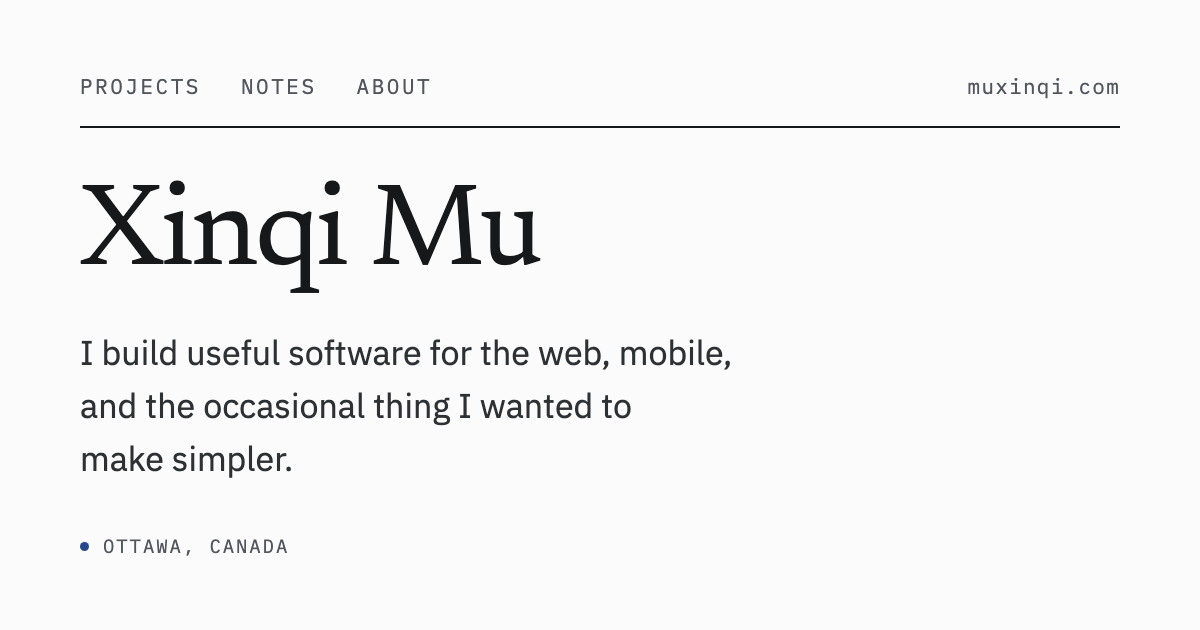
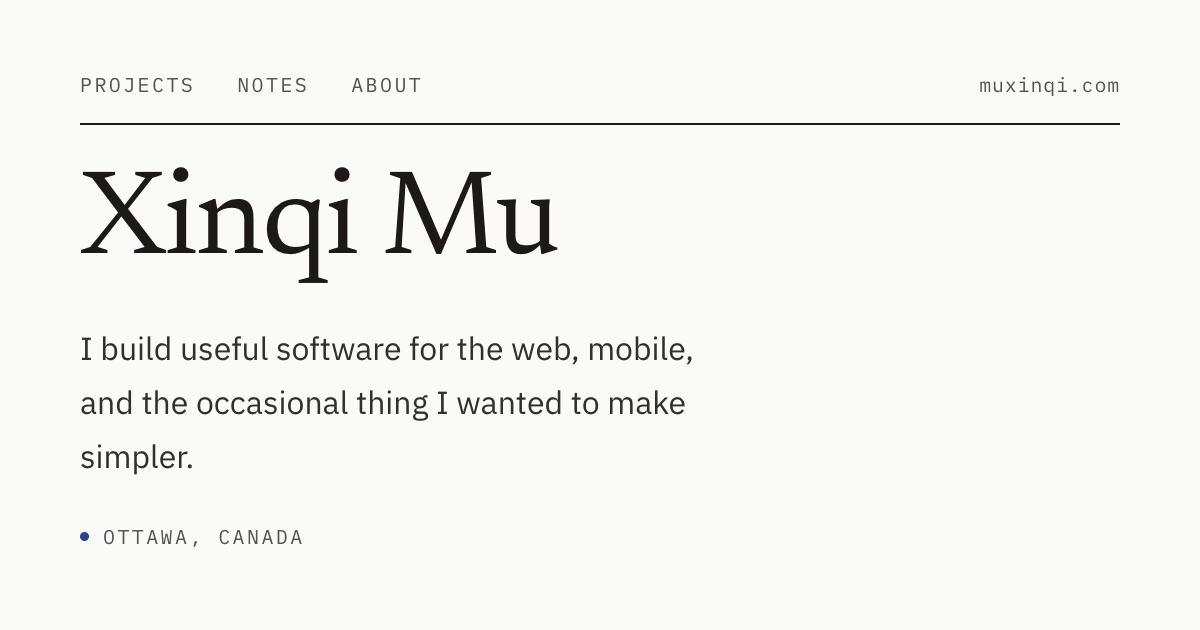
Warm the neutrals so food photos sit on paper, not ice
The greys leaned faintly blue and dark mode was a blue-black, which made
everything on the page read cold — fine for a list of projects, wrong for
photos of stir-fry. Every neutral token now leans the other way by about the
same amount (light #FAFAF9, dark #131211). The accent stays the same navy.

Contrast holds: body text is above 15:1 in both themes, muted text about 7:1.

The social card was a hand-made screenshot; it is now rendered from
scripts/og-card.html with the new ground, so the next language's card and the
next change of wording are one command each.

diff --git a/scripts/og-card.html b/scripts/og-card.html
@@ -1,0 +1,90 @@
+<!doctype html>
+<!--
+  The 1200×630 social card, one per language. Not part of the site: open it in
+  headless Chrome at exactly that size and save the screenshot over public/.
+
+    "/Applications/Google Chrome.app/Contents/MacOS/Google Chrome" --headless \
+      --hide-scrollbars --window-size=1200,630 --virtual-time-budget=5000 \
+      --screenshot=public/og.png "file://$PWD/scripts/og-card.html?lang=en"
+
+  ?lang=zh writes the Chinese card (save it as public/og-zh.png). The colours
+  are the light-theme tokens from src/styles/global.css; change them together.
+-->
+<html>
+<head>
+<meta charset="utf-8" />
+<link rel="stylesheet" href="https://fonts.googleapis.com/css2?family=IBM+Plex+Mono:wght@400&family=IBM+Plex+Sans:wght@400&family=Newsreader:wght@400&display=block" />
+<style>
+  html, body { margin: 0; width: 1200px; height: 630px; overflow: hidden; }
+  body {
+    background: #FAFAF9;
+    color: #1C1917;
+    padding: 72px 80px;
+    box-sizing: border-box;
+    -webkit-font-smoothing: antialiased;
+  }
+  .top {
+    display: flex;
+    justify-content: space-between;
+    font: 20px "IBM Plex Mono", "PingFang SC", monospace;
+    letter-spacing: 0.12em;
+    color: #57534E;
+    padding-bottom: 26px;
+    border-bottom: 2px solid #1C1917;
+  }
+  .top nav { display: flex; gap: 42px; text-transform: uppercase; }
+  .top .host { letter-spacing: 0.04em; }
+  h1 {
+    margin: 36px 0 0;
+    font: 400 120px/1.08 "Newsreader", Georgia, serif;
+    letter-spacing: -0.018em;
+  }
+  p {
+    margin: 30px 0 0;
+    max-width: 660px;
+    font: 32px/1.7 "IBM Plex Sans", "PingFang SC", sans-serif;
+    color: #33302C;
+  }
+  .where {
+    display: flex;
+    align-items: center;
+    gap: 14px;
+    margin-top: 40px;
+    font: 20px "IBM Plex Mono", "PingFang SC", monospace;
+    letter-spacing: 0.12em;
+    text-transform: uppercase;
+    color: #57534E;
+  }
+  .where::before { content: ""; width: 9px; height: 9px; border-radius: 50%; background: #274690; }
+</style>
+</head>
+<body>
+  <div class="top">
+    <nav id="nav"></nav>
+    <span class="host">muxinqi.com</span>
+  </div>
+  <h1>Xinqi Mu</h1>
+  <p id="line"></p>
+  <div class="where" id="where"></div>
+  <script>
+    const COPY = {
+      en: {
+        nav: ["Projects", "Notes", "About"],
+        line: "I build useful software for the web, mobile, and the occasional thing I wanted to make simpler.",
+        where: "Ottawa, Canada",
+      },
+      zh: {
+        nav: ["项目", "笔记", "关于"],
+        line: "我做有用的软件：网页、手机应用，偶尔也做些让小事更简单的东西。",
+        where: "加拿大 渥太华",
+      },
+    };
+    const lang = new URLSearchParams(location.search).get("lang") === "zh" ? "zh" : "en";
+    const copy = COPY[lang];
+    document.documentElement.lang = lang === "zh" ? "zh-Hans" : "en";
+    document.getElementById("nav").innerHTML = copy.nav.map((n) => `<span>${n}</span>`).join("");
+    document.getElementById("line").textContent = copy.line;
+    document.getElementById("where").textContent = copy.where;
+  </script>
+</body>
+</html>

diff --git a/src/styles/global.css b/src/styles/global.css
@@ -63,14 +63,16 @@
 
 :root {
   color-scheme: light dark;
-  --ground:       light-dark(#FBFBFC, #101214);
-  --surface-sunk: light-dark(#F1F2F4, #191C1F);
-  --line:         light-dark(#E1E3E6, #2A2F34);
-  --line-strong:  light-dark(#D5D8DC, #3E444B);
-  --ink:          light-dark(#16181A, #E8EAEC);
-  --ink-soft:     light-dark(#2E3134, #C8CCD1);
-  --ink-dim:      light-dark(#35383C, #C0C4C9);
-  --ink-muted:    light-dark(#53575D, #999FA6);
+  /* Warm neutrals: a grey with the faintest lean toward yellow, so food photos
+     sit on paper rather than ice. The accent alone stays cool. */
+  --ground:       light-dark(#FAFAF9, #131211);
+  --surface-sunk: light-dark(#F3F2F0, #1C1A18);
+  --line:         light-dark(#E7E5E4, #2B2826);
+  --line-strong:  light-dark(#D6D3D1, #3F3B37);
+  --ink:          light-dark(#1C1917, #E9E7E5);
+  --ink-soft:     light-dark(#33302C, #CAC6C1);
+  --ink-dim:      light-dark(#3A3632, #C2BDB8);
+  --ink-muted:    light-dark(#57534E, #A29D98);
   --accent:       light-dark(#274690, #86ABEE);
 }
 /* One state bit for the whole feature: data-theme on <html>. It selects the

diff --git a/README.md b/README.md
@@ -55,10 +55,11 @@ src/
   public preview link on `workers.dev`, and it must not compete with the custom
   domain in search. `workers_dev` stays off, so production has no
   `workers.dev` copy at all.
-- `og.png` — the 1200×630 social card in `public/`. It was rendered by loading a
-  card built from the site's own tokens and webfonts in headless Chrome at
-  exactly that size. Regenerate the same way if the name or the one-liner
-  changes; it is static, so nothing needs to build it.
+- `og.png` — the 1200×630 social card in `public/`. It is a screenshot of
+  `scripts/og-card.html`, which is built from the site's own tokens and webfonts;
+  the command is at the top of that file. Re-render it if the name, the
+  one-liner, or the light-theme colours change. It is static, so nothing in the
+  build touches it.
 
 There is deliberately no Content Security Policy. CSP mitigates injected script,
 and this site has no injection surface: no user content, no query parameters read
